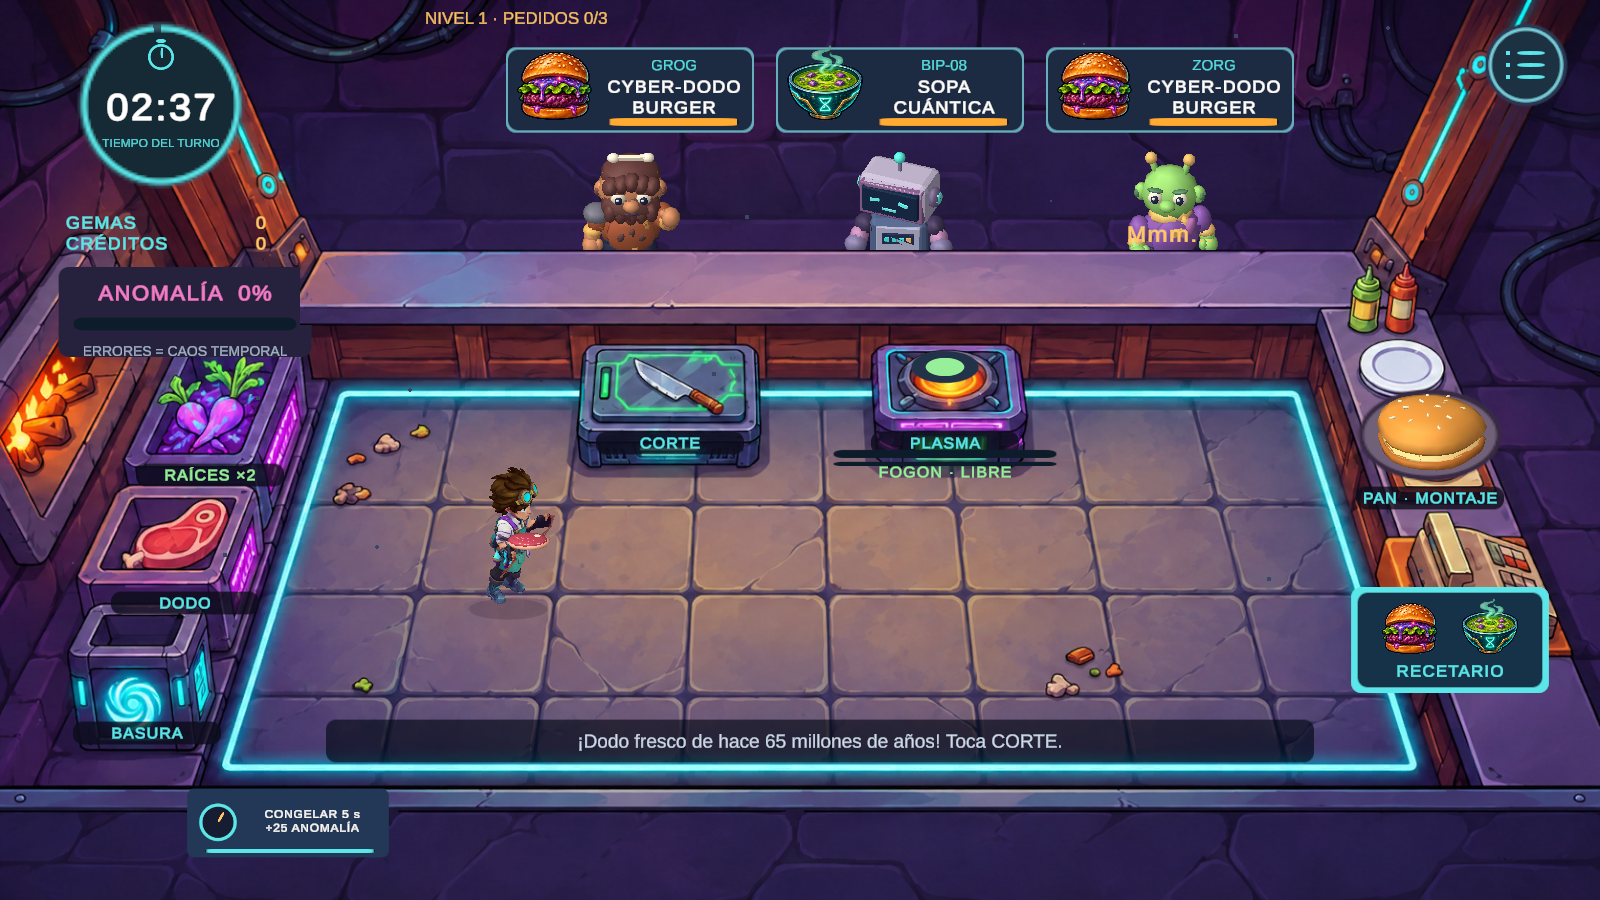
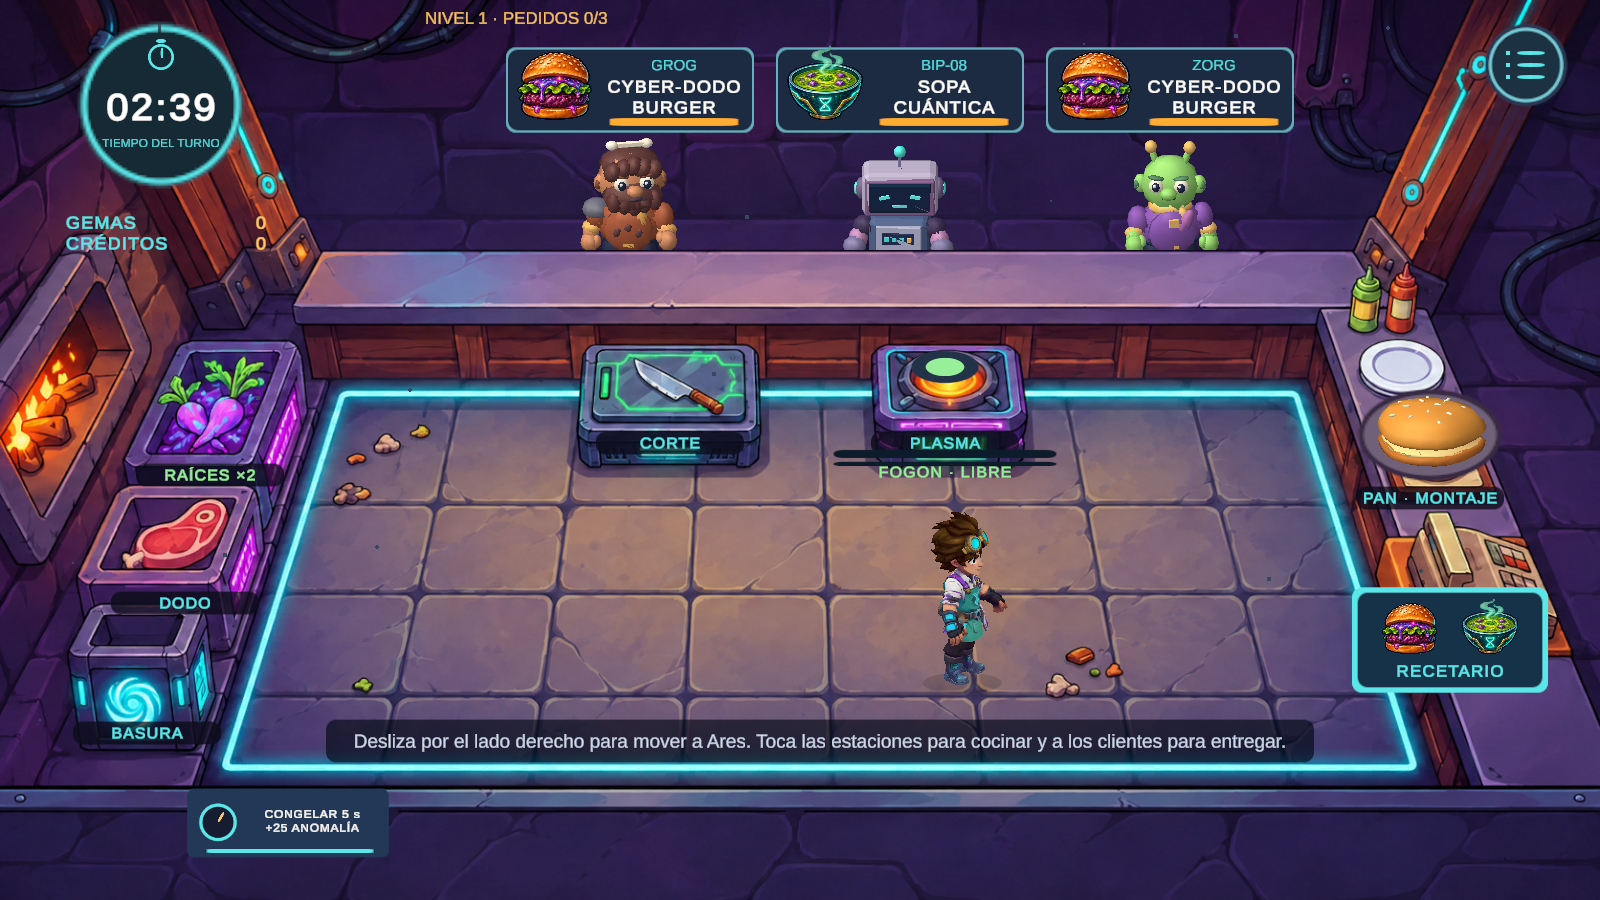
Lower the character view and announce paradox only at onset

diff --git a/Assets/ChronosChef/Scripts/KitchenView.Environment.cs b/Assets/ChronosChef/Scripts/KitchenView.Environment.cs
@@ -10,7 +10,9 @@ namespace ChronosChef
         UnityEngine.UI.RawImage environmentLayer, counterLayer;
         bool fixedCustomerWindows;
         RectTransform clockHand;
-        TMP_Text paradoxCaption;
+        CanvasGroup alertCanvas, borderCanvas;
+        bool announcing;
+        internal const float NoticeSeconds = 3.2f;
         UnityEngine.UI.Image paradoxRim;
         GameObject paradoxBorder;
         UnityEngine.UI.Image clockSweep;
@@ -90,13 +92,22 @@ namespace ChronosChef
             Panel(stage, "MessageStrip", 820, 159, 990, 45, new Color(.025f, .04f, .10f, .85f)).SetSiblingIndex(message.transform.GetSiblingIndex());
             bottom.GetComponent<UnityEngine.UI.Image>().enabled = false;
             inventory.gameObject.SetActive(false);
-            paradoxBorder = Panel(stage, "ParadoxBadgeRim", 192, 77, 295, 113, Pink).gameObject;
-            var face = Panel(stage, "ParadoxBadge", 192, 77, 289, 107, C("331B3D")); paradoxRim = face.GetComponent<UnityEngine.UI.Image>();
-            var clock = Dot(face, "ClockFace", -93, 0, 86, Cyan); Dot(clock, "ClockInner", 0, 0, 75, C("DBE8EC"));
-            for (int i = 0; i < 12; i++) { float a = i * Mathf.PI / 6; Dot(clock, "Tick", Mathf.Sin(a) * 31, Mathf.Cos(a) * 31, 4, Ink); }
-            clockHand = Panel(clock, "ClockHand", 0, 10, 5, 25, Ink); clockHand.pivot = new Vector2(.5f, 0); clockHand.anchoredPosition = Vector2.zero;
-            var shortHand = Panel(clock, "HourHand", -8, 2, 22, 5, Ink); shortHand.localEulerAngles = new Vector3(0, 0, -45);
-            paradoxCaption = Label(face, "PARADOX\nALERT", -34, 0, 170, 85, 27, Color.white, FontStyles.Bold);
+            stage.Find("AnomalyPanel").gameObject.SetActive(false);
+            anomalyLabel.gameObject.SetActive(false);
+            anomalyFill.transform.parent.gameObject.SetActive(false);
+            stage.Find("Text_ERRORES = CAOS TEMPORAL").gameObject.SetActive(false);
+            paradoxBorder = Panel(stage,"ParadoxBadgeRim",68,583,4,73,Pink).gameObject;
+            var face = Panel(stage,"ParadoxBadge",239,583,336,73,new Color(.09f,.055f,.16f,.72f));
+            paradoxRim = face.GetComponent<UnityEngine.UI.Image>();
+            var watch = Dot(face,"FracturedClock",-132,0,41,Pink);
+            Dot(watch,"Dial",0,0,35,C("29243D"));
+            clockHand = Panel(watch,"Hand",0,6,3,13,Color.white);
+            clockHand.pivot = new Vector2(.5f,0);
+            clockHand.anchoredPosition = Vector2.zero;
+            Label(face,"¡ANOMALÍA!",-101,13,247,33,22,Color.white,FontStyles.Bold,TextAlignmentOptions.Left);
+            Label(face,"Tu eco bloquea el paso",-101,-15,247,27,17,C("F9CDE7"),FontStyles.Normal,TextAlignmentOptions.Left);
+            alertCanvas = face.gameObject.AddComponent<CanvasGroup>();
+            borderCanvas = paradoxBorder.AddComponent<CanvasGroup>();
             SetParadoxVisible(false);
             InstallShiftClock();
             cloneLabel.rectTransform.anchoredPosition = new Vector2(830, 206);
@@ -108,11 +119,15 @@ namespace ChronosChef
             if (!clockHand) return;
             var texture = g.Level > 5 && steampunkArt ? steampunkArt : environmentArt;
             if (environmentLayer.texture != texture) { environmentLayer.texture = texture; counterLayer.texture = texture; }
-            SetParadoxVisible(g.Running && g.CloneRemaining > 0);
-            float t = g.Running && !g.Paused ? Time.time : 0;
-            clockHand.localEulerAngles = new Vector3(0, 0, -t * (g.CloneRemaining > 0 ? 600 : 40));
-            paradoxCaption.text = g.CloneRemaining > 0 ? "PARADOX\n" + Mathf.CeilToInt(g.CloneRemaining) + " s" : "PARADOX\nALERT";
-            paradoxRim.color = g.CloneRemaining > 0 ? ReducedMotion ? C("7A2853") : Color.Lerp(C("331B3D"), C("9C275E"), Mathf.Abs(Mathf.Sin(t * 10))) : C("331B3D");
+            float age = KitchenGame.ParadoxSeconds - g.CloneRemaining;
+            bool visible = announcing && g.Running && g.CloneRemaining > 0 && age < NoticeSeconds;
+            if (!visible) announcing = false;
+            SetParadoxVisible(visible && !g.Paused);
+            if (visible)
+            {
+                alertCanvas.alpha = borderCanvas.alpha = ReducedMotion ? 1 : Mathf.Clamp01((NoticeSeconds-age)/.45f);
+                clockHand.localEulerAngles = new Vector3(0,0,ReducedMotion ? -30 : -age*155);
+            }
             clockSweep.fillAmount = Mathf.Clamp01(g.Remaining / g.LevelRules.Seconds);
             clockSweep.color = g.Remaining < 20 ? Pink : Cyan;
         }

diff --git a/Tools/VerifyAlertLifecycle.cs b/Tools/VerifyAlertLifecycle.cs
@@ -3,6 +3,9 @@ var view = UnityEngine.Object.FindFirstObjectByType<ChronosChef.KitchenView>();
 var stage = view.transform.Find("SafeArea/LandscapeFrame/KitchenStage");
 var alert = stage.Find("ParadoxBadge").gameObject;
 var border = stage.Find("ParadoxBadgeRim").gameObject;
+var original = game.Progress;
+var isolated = new ChronosChef.KitchenProgress("ChronosChef.AlertQA.");
+game.Progress = isolated;
 float speed = UnityEngine.Time.timeScale;
 try
 {
@@ -11,6 +14,9 @@ try
     game.AddAnomaly(100);
     await System.Threading.Tasks.Task.Delay(150);
     if (!alert.activeSelf || !border.activeSelf || game.CloneRemaining <= 0) throw new System.Exception("Alert missing during paradox.");
+    UnityEngine.Time.timeScale = 4;
+    await System.Threading.Tasks.Task.Delay(1050);
+    if (game.CloneRemaining <= 0 || alert.activeSelf || border.activeSelf) throw new System.Exception("Notice lingered after onset.");
     UnityEngine.Time.timeScale = 20;
     await System.Threading.Tasks.Task.Delay(1400);
     if (game.CloneRemaining > 0 || alert.activeSelf || border.activeSelf) throw new System.Exception("Alert did not hide when paradox expired.");
@@ -21,5 +27,5 @@ try
 finally
 {
     UnityEngine.Time.timeScale = speed;
-    game.ResetShift(); game.GoToMenu();
+    game.GoToMenu(); isolated.ClearSession(); game.Progress = original; view.ShowHome();
 }

diff --git a/Assets/ChronosChef/Scripts/KitchenGame.cs b/Assets/ChronosChef/Scripts/KitchenGame.cs
@@ -12,6 +12,7 @@ namespace ChronosChef
         public Food PrepFood { get; private set; }
         public float Remaining { get; private set; }
         public float Anomaly { get; private set; }
+        public const float ParadoxSeconds = 15;
         public float CloneRemaining { get; private set; }
         public const float BorrowDuration = 5, BorrowRecharge = 32, BorrowAnomaly = 25;
         public float BorrowRemaining { get; private set; }
@@ -270,7 +271,7 @@ namespace ChronosChef
         {
             Anomaly = Mathf.Min(100, Anomaly + amount);
             if (Anomaly < 100 || CloneRemaining > 0) return;
-            Anomaly = 0; CloneRemaining = 15;
+            Anomaly = 0; CloneRemaining = ParadoxSeconds;
             var candidates = new List<Vector2Int>();
             for (int x = 2; x < 10; x++) for (int y = 1; y < 3; y++)
             { var p = new Vector2Int(x, y); if (p != cell && (KitchenRules.Position(p) - ChefPosition).sqrMagnitude > 80*80 && KitchenRules.IsWalkable(p, blocked) && !KitchenRules.IsStationApproach(p) && !route.Contains(p)) candidates.Add(p); }

diff --git a/Assets/ChronosChef/Editor/ChronosBetaPlaytest.cs b/Assets/ChronosChef/Editor/ChronosBetaPlaytest.cs
@@ -89,7 +89,7 @@ public static class ChronosBetaPlaytest
                     }
                     DriveCook(); break;
                 case 8:
-                    if (game.CloneRemaining > 0) { Assert(FindStage("ParadoxBadge").activeSelf, "Active anomaly alert hidden"); return; }
+                    if (game.CloneRemaining > 0) { if (game.CloneRemaining < 10) Assert(!FindStage("ParadoxBadge").activeSelf, "Onset alert lingered"); return; }
                     Assert(!FindStage("ParadoxBadge").activeSelf, "Expired anomaly alert still visible");
                     game.GoToMenu(); game.Progress.ClearSession(); view.ShowHome(); Click("HomeOptions");
                     Assert(FindStage("Settings").activeSelf, "Home settings did not open");

diff --git a/Assets/ChronosChef/Scripts/KitchenView.Living.cs b/Assets/ChronosChef/Scripts/KitchenView.Living.cs
@@ -107,10 +107,6 @@ namespace ChronosChef
             var borrowRect = (RectTransform)borrowButton.transform;
             borrowRect.anchoredPosition = new Vector2(288,77);
             borrowRect.localScale = Vector3.one * .70f;
-            var alertFace = paradoxRim.rectTransform;
-            var alertBorder = (RectTransform)paradoxBorder.transform;
-            alertFace.anchoredPosition = alertBorder.anchoredPosition = borrowRect.anchoredPosition;
-            alertFace.localScale = alertBorder.localScale = borrowRect.localScale;
             BuildCastControls();
             receipt = Panel(stage, "DeliveryReceipt", 0, 0, 140, 42, C("163444"));
             receipt.SetSiblingIndex(menu.transform.GetSiblingIndex());

diff --git a/Assets/ChronosChef/Scripts/KitchenView.cs b/Assets/ChronosChef/Scripts/KitchenView.cs
@@ -45,7 +45,7 @@ namespace ChronosChef
             clone.gameObject.SetActive(g.CloneRemaining > 0);
             clone.anchoredPosition = g.ClonePosition;
             cloneLabel.text = "ECO TEMPORAL  /  " + Mathf.CeilToInt(g.CloneRemaining) + " s";
-            cloneLabel.gameObject.SetActive(g.CloneRemaining > 0);
+            cloneLabel.gameObject.SetActive(false);
             timer.text = $"{Mathf.FloorToInt(g.Remaining / 60):00}:{Mathf.FloorToInt(g.Remaining % 60):00}";
             timer.color = g.Remaining < 20 ? Pink : Color.white;
             message.text = g.TutorialActive ? g.TutorialInstruction : g.Paused ? "EN PAUSA · Toca CONTINUAR para volver a la cocina." : g.Message;

diff --git a/Assets/ChronosChef/Scripts/KitchenView.Expansion.cs b/Assets/ChronosChef/Scripts/KitchenView.Expansion.cs
@@ -195,8 +195,9 @@ namespace ChronosChef
         }
         void Cue(string cue)
         {
+            if (cue == "paradox") announcing = true;
             pop = .3f; if (cue == "click") return;
-            pulse = .8f; feedbackLabel.text = cue == "serve" ? "¡PEDIDO ENTREGADO!" : cue == "paradox" ? "¡PARADOX ALERT!" : cue == "ready" ? "¡COMIDA LISTA!" : cue == "bad" ? "¡CUIDADO!" : "";
+            pulse = .8f; feedbackLabel.text = cue == "serve" ? "¡PEDIDO ENTREGADO!" : cue == "ready" ? "¡COMIDA LISTA!" : cue == "bad" ? "¡CUIDADO!" : "";
             feedbackLabel.color = cue == "bad" || cue == "paradox" ? Pink : Gold;
         }
         void RefreshExpansion(KitchenGame g)

diff --git a/Assets/ChronosChef/Scripts/KitchenView.Cast.cs b/Assets/ChronosChef/Scripts/KitchenView.Cast.cs
@@ -13,8 +13,8 @@ namespace ChronosChef
 
         void BuildCastControls()
         {
-            ares = MountCharacter(chef, "Ares", new Vector2(205,205), 48);
-            echo = MountCharacter(clone, "Ares", new Vector2(205,205), 48);
+            ares = MountCharacter(chef, "Ares", new Vector2(233,233), 59);
+            echo = MountCharacter(clone, "Ares", new Vector2(233,233), 59);
             if (echo) echo.color = new Color(.73f,.46f,1);
             for (int slot = 0; slot < 3; slot++)
             for (int kind = 0; kind < 4; kind++)

diff --git a/Assets/ChronosChef/Scripts/KitchenModelGraphic.cs b/Assets/ChronosChef/Scripts/KitchenModelGraphic.cs
@@ -68,7 +68,8 @@ namespace ChronosChef
         int[] vertexMap;
         float yaw, dragYaw, headYaw;
         bool inspectable;
-        const float TiltSin = .52f, TiltCos = .854166f;
+        // Orthographic view pitched 23 degrees above the work surface.
+        const float TiltSin = .3907311f, TiltCos = .9205049f;
 
         static Corner ReadCorner(BinaryReader reader) => new Corner {
             point = new Vector3(reader.ReadSingle(), reader.ReadSingle(), reader.ReadSingle()),

diff --git a/README.md b/README.md
@@ -30,7 +30,7 @@ El tutorial enseña ambas recetas en doce pasos, señala la estación siguiente 
 
 Diez turnos, tres recetas y cuatro especies en tres puestos. KitchenRecipe reúne la ilustración, ingredientes, instrucciones y mensajes que usan la comanda y el recetario de cada plato. Grog ruge y reduce la paciencia de vecinos, BIP-08 tiembla al impacientarse, Rex penaliza más la reputación al arañar la barra y Zorg levita. Los clientes entran y salen detrás de ventanas fijas en el borde de la barra.
 
-Cocción y margen de quemado independientes, basura, combos, propinas, reputación, estrellas y derrota por tiempo/reputación. El fogón funciona mientras Ares hace otras tareas. Las rutas evitan las estaciones con margen para sus pies. El clon aparece durante 15 segundos al alcanzar 100% de anomalía y no ocupa puntos de servicio. PARADOX ALERT solo es visible durante esa anomalía; el medidor permanece visible.
+Cocción y margen de quemado independientes, basura, combos, propinas, reputación, estrellas y derrota por tiempo/reputación. El fogón funciona mientras Ares hace otras tareas. Las rutas evitan las estaciones con margen para sus pies. El clon aparece durante 15 segundos al alcanzar 100% de anomalía y no ocupa puntos de servicio. Un aviso translúcido aparece durante los primeros 3,2 segundos de la anomalía.
 
 Cinco turnos jurásicos y cinco Steampunk, con entornos ilustrados propios. Comparten distribución física para conservar rutas e interacciones. Completar un nivel abre el siguiente; tres gemas abren la segunda era. Cada nivel da una gema solo la primera vez que obtiene tres estrellas. Botas y plasma tienen tres mejoras compradas con créditos ganados en juego.
 
